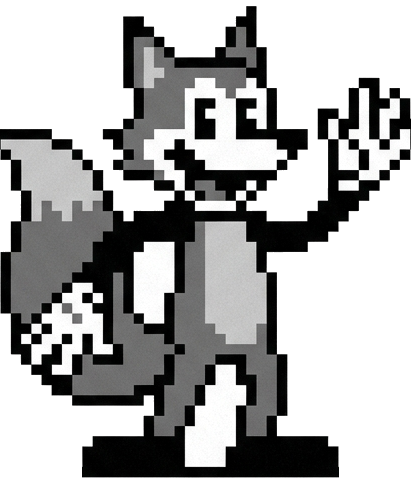
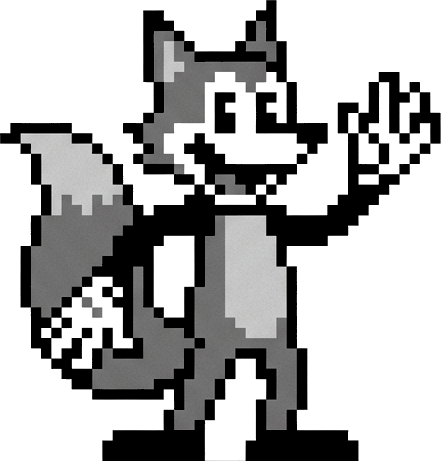
Add files via upload

Changed region(s): [[0.0, 0.0, 1.0, 1.0]]

diff --git a/src/lib/version.ts b/src/lib/version.ts
@@ -4,7 +4,7 @@
  * quickest tell for a partial upload: a missing file usually shows up as a
  * missing migration.
  */
-export const APP_VERSION = "0.599.0";
+export const APP_VERSION = "0.599.1";
 
 export const MIGRATIONS = [
   "0_init",
@@ -145,6 +145,10 @@ export const MIGRATIONS = [
 export type Change = { version: string; summary: string[] };
 
 export const CHANGES: Change[] = [
+  {
+    version: "0.599.1",
+    summary: ["Old-Reel Rufus's hands are no longer cut off."],
+  },
   {
     version: "0.599.0",
     summary: [

diff --git a/DECISIONS.md b/DECISIONS.md
@@ -1,5 +1,19 @@
 # Decisions
 
+## 2026-10 — Old-Reel Rufus re-cut from the original sheet (v0.599.1)
+
+All three Rufus sprites had been cut a little narrow: the right edge went
+through a hand (half the hatchling's mitten, the juvenile's right hand, the
+edge of the adult's wave). A visual pass missed it — a straight cut through
+pixel art reads as drawing — so the tell is now an outline check: on the
+black-outlined characters, a light pixel ON the image edge means the outline
+was cut away. Re-cut from the original sheet (background by border-connected
+flood, floor line dropped, near-black/near-white snapped to flat colour).
+The same check flags other black-and-white characters with clipped hands
+(Newsreel Nettie, Reel Rascal Ollie, Eugene, Inkbelle, Curtain-Call Curly's
+juvenile; possibly Knox) — those need their original sheets; not patched by
+guessing at the missing pixels.
+
 ## 2026-10 — Character sprites: stray lines removed (v0.599.0)
 
 Scanned all 163 companion PNGs for pieces separate from the character and

diff --git a/ROADMAP.md b/ROADMAP.md
@@ -1672,6 +1672,6 @@ the fairness engine above as the quiet fuel. No one is ranked against anyone.
 
 ## Known-good baselines (end of this run)
 
-- Web APP_VERSION 0.599.0 (migrations through 127_marine_corps_birthday).
+- Web APP_VERSION 0.599.1 (migrations through 127_marine_corps_birthday).
 - App versionName 0.408.0 / versionCode 469 / CLIENT_BUILD 469.
 - Collector: deployed and running; Xbox totals come from real game sessions.
